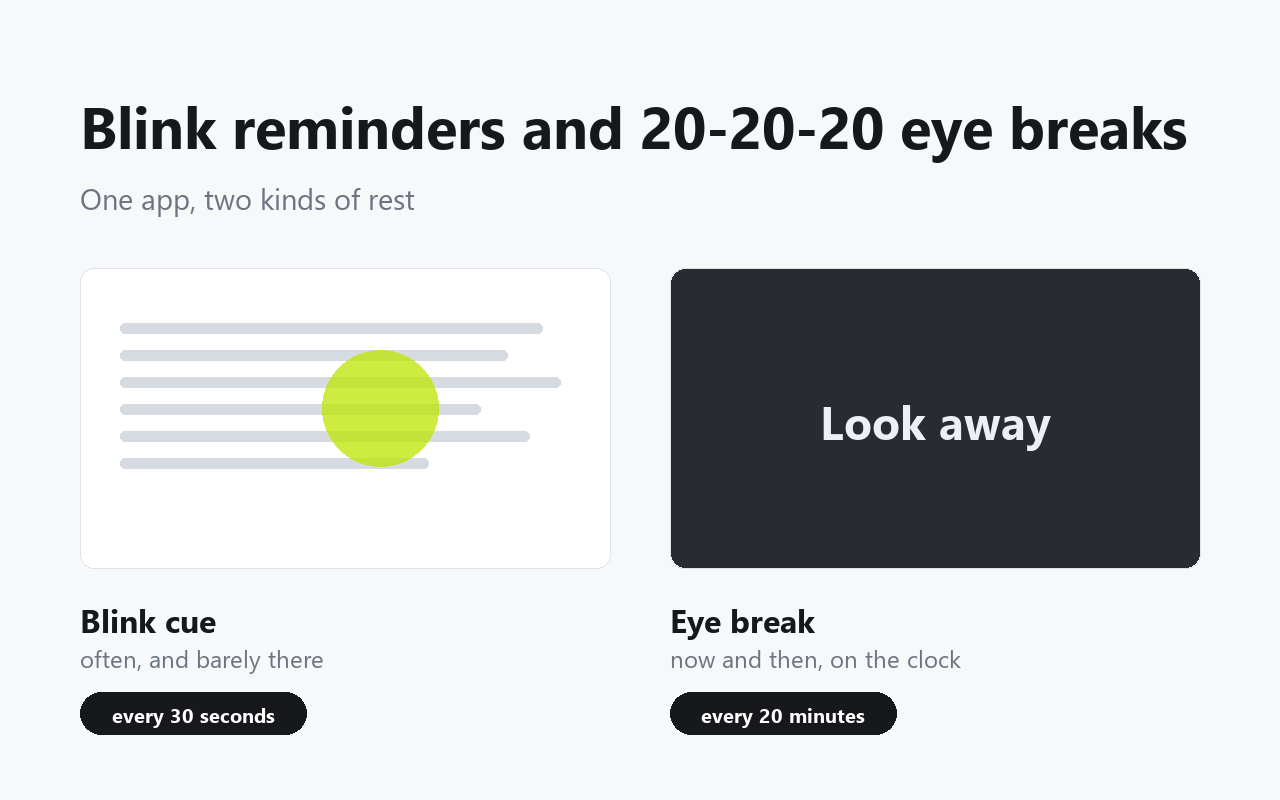
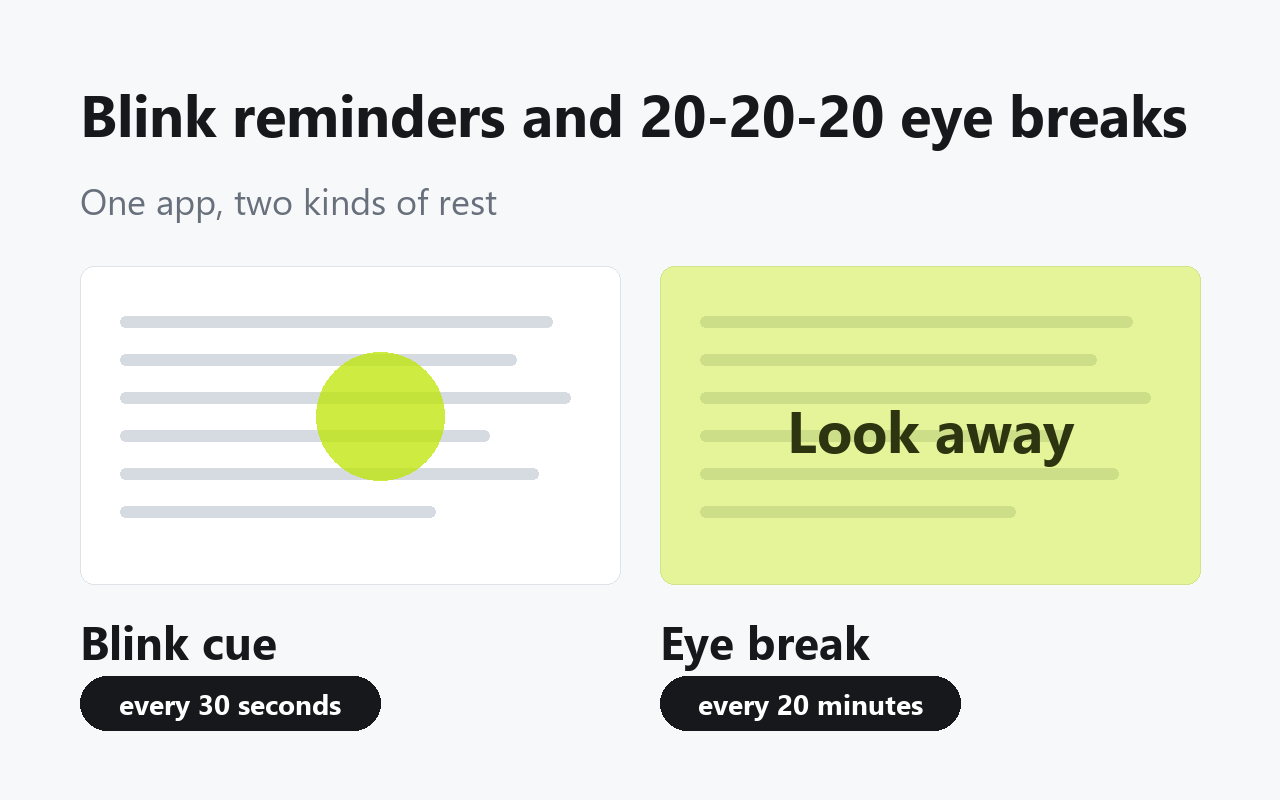
Store screenshots: bigger type, fewer words, an honest break
The Store shows these in a carousel at about half scale, so the captions
set at twenty-four pixels arrived at twelve and were decoration. Everything
is set for the size it is really seen at now -- headlines at seventy-two,
nothing on any slide below thirty-four -- and the words are cut back until
only the claim is left. "Often, and barely there" and "now and then, on the
clock" are gone: the pill underneath already says every 30 seconds and
every 20 minutes, which is the same thing in half the ink.

The break panel was a dark block, which was not a style choice but a
mistake: the break draws the same lime at four-tenths over the page you
were reading, and nothing in this app ever goes dark. It now shows what it
really does, and matches the blink panel beside it. The dim style on the
four-styles slide was wrong in the same way and is fixed with it.

diff --git a/store/make_chrome_screens.py b/store/make_chrome_screens.py
@@ -8,9 +8,14 @@ thumbnails. Every extension in this category sells with illustrated slides,
 so these are illustrated -- but each one shows something the app actually
 does, which is where slides like these usually start lying.
 
+Two rules learned the hard way. Set the type for the size it is really seen
+at: the Store shows these in a carousel at about half scale, so anything
+under forty pixels here is unreadable there. And cut words until only the
+claim is left -- a caption nobody can read is worse than no caption, because
+it takes the space one could have used.
+
 One design system across all five: the same palette, the same face, the
-headline in the same place every time, so they read as a set rather than as
-five unrelated posters.
+headline in the same place every time, so they read as a set.
 
 Writes store/chrome/s1-*.png .. s5-*.png at 1280x800. The 440x280 thumbnail
 is a separate asset and comes from make_chrome_assets.py.
@@ -30,9 +35,9 @@ from make_chrome_assets import font, fit, LIME, INK    # noqa: E402
 W, H = 1280, 800
 PAPER = (247, 248, 250)
 WHITE = (255, 255, 255)
-MUTED = (108, 116, 128)
+MUTED = (104, 112, 124)
 RULE = (222, 227, 234)
-HEAD_Y, SUB_Y, BODY_Y = 86, 178, 268
+HEAD_Y, SUB_Y, BODY_Y = 74, 176, 266
 
 
 def slide(head, sub, bg=PAPER, ink=INK, sub_ink=MUTED):
@@ -40,8 +45,8 @@ def slide(head, sub, bg=PAPER, ink=INK, sub_ink=MUTED):
     headline in the same place; only the middle differs."""
     c = Image.new("RGBA", (W, H), bg + (255,))
     d = ImageDraw.Draw(c)
-    d.text((80, HEAD_Y), head, font=fit(d, head, True, 60, W - 160), fill=ink)
-    d.text((80, SUB_Y), sub, font=fit(d, sub, False, 29, W - 160), fill=sub_ink)
+    d.text((80, HEAD_Y), head, font=fit(d, head, True, 72, W - 160), fill=ink)
+    d.text((80, SUB_Y), sub, font=fit(d, sub, False, 36, W - 160), fill=sub_ink)
     return c, d
 
 
@@ -49,11 +54,11 @@ def card(d, box, radius=14, fill=WHITE, outline=RULE):
     d.rounded_rectangle(box, radius, fill=fill, outline=outline, width=1)
 
 
-def lines(d, x, y, width, rows=6, step=27, colour=(214, 219, 226)):
+def lines(d, x, y, width, rows=6, step=30, colour=(214, 219, 226)):
     """A suggestion of an article, so the cue has something to sit over."""
     for i, frac in enumerate((0.96, 0.88, 1.0, 0.82, 0.93, 0.7)[:rows]):
         d.rounded_rectangle((x, y + i * step, x + int(width * frac),
-                             y + i * step + 10), 5, fill=colour)
+                             y + i * step + 11), 5, fill=colour)
 
 
 def cue(c, cx, cy, r, alpha=190, glow=0):
@@ -68,42 +73,50 @@ def cue(c, cx, cy, r, alpha=190, glow=0):
     c.alpha_composite(layer)
 
 
-def label(d, x, y, text, size=24, bold=True, colour=INK):
+def wash(c, box, radius=14, alpha=102):
+    """The break, as it is really drawn: the same lime over the whole page
+    at four-tenths, not a dark panel. Nothing in the app ever goes dark."""
+    layer = Image.new("RGBA", c.size, (0, 0, 0, 0))
+    ImageDraw.Draw(layer).rounded_rectangle(box, radius, fill=LIME + (alpha,))
+    c.alpha_composite(layer)
+
+
+def label(d, x, y, text, size=40, bold=True, colour=INK):
     d.text((x, y), text, font=font(size, bold), fill=colour)
 
 
-def pill(d, box, text, fill=INK, ink=WHITE, size=20):
+def pill(d, box, text, fill=INK, ink=WHITE, size=28):
     d.rounded_rectangle(box, (box[3] - box[1]) // 2, fill=fill)
     f = font(size, True)
     tw = d.textlength(text, font=f)
-    d.text((box[0] + ((box[2] - box[0]) - tw) / 2, box[1] + 9), text, font=f, fill=ink)
+    d.text((box[0] + ((box[2] - box[0]) - tw) / 2,
+            box[1] + ((box[3] - box[1]) - size * 1.35) / 2), text, font=f, fill=ink)
 
 
 # -- 1. what it is -----------------------------------------------------------
 def s1():
     """The only slide that has to work on someone who has never heard of
-    this: two reminders, at two rates, side by side."""
+    this: both reminders, drawn the way they really look, side by side."""
     c, d = slide("Blink reminders and 20-20-20 eye breaks",
                  "One app, two kinds of rest")
-    panels = ((80, "Blink cue", "often, and barely there", "every 30 seconds"),
-              (670, "Eye break", "now and then, on the clock", "every 20 minutes"))
-    for i, (x, title, note, rate) in enumerate(panels):
-        box = (x, BODY_Y, x + 530, BODY_Y + 300)
+    ph = 318
+    for i, (x, title, rate) in enumerate(((80, "Blink cue", "every 30 seconds"),
+                                          (660, "Eye break", "every 20 minutes"))):
+        box = (x, BODY_Y, x + 540, BODY_Y + ph)
         card(d, box)
+        lines(d, x + 40, BODY_Y + 50, 450, rows=6, step=38)
         if i == 0:
-            lines(d, x + 40, BODY_Y + 55, 440)
-            cue(c, x + 300, BODY_Y + 140, 58)
+            cue(c, x + 300, BODY_Y + 150, 64)
         else:
-            d.rounded_rectangle((x + 1, BODY_Y + 1, x + 529, BODY_Y + 299), 14,
-                                fill=(40, 44, 50))
-            f = font(46, True)
+            wash(c, box)
+            e = ImageDraw.Draw(c)
+            f = font(58, True)
             t = "Look away"
-            d.text((x + (530 - d.textlength(t, font=f)) / 2, BODY_Y + 122), t,
-                   font=f, fill=(236, 240, 245))
+            e.text((x + (540 - e.textlength(t, font=f)) / 2, BODY_Y + 124), t,
+                   font=f, fill=(44, 52, 16))
         d = ImageDraw.Draw(c)
-        label(d, x, BODY_Y + 330, title, 32)
-        label(d, x, BODY_Y + 374, note, 24, False, MUTED)
-        pill(d, (x, BODY_Y + 424, x + 226, BODY_Y + 466), rate)
+        label(d, x, BODY_Y + ph + 26, title, 46)
+        pill(d, (x, BODY_Y + ph + 92, x + 300, BODY_Y + ph + 146), rate)
     return c
 
 
@@ -112,19 +125,18 @@ def s2():
     """The cue at a size you can actually see, which is the thing five
     full-page screenshots never managed."""
     c, d = slide("You will see it, and hear it",
-                 "A soft cue and a quiet chime, so it does not pass you by")
-    card(d, (80, BODY_Y, 740, BODY_Y + 420))
-    lines(d, 120, BODY_Y + 48, 560, rows=6, step=34)
-    cue(c, 410, BODY_Y + 210, 108, glow=14)
+                 "So a quiet reminder is not a missed one")
+    card(d, (80, BODY_Y, 720, BODY_Y + 400))
+    lines(d, 124, BODY_Y + 46, 540, rows=6, step=54)
+    cue(c, 400, BODY_Y + 200, 104, glow=14)
     d = ImageDraw.Draw(c)
-    for i, r in enumerate((152, 202, 252)):
-        d.arc((410 - r, BODY_Y + 210 - r, 410 + r, BODY_Y + 210 + r),
-              -50, 50, fill=(151, 180, 44), width=max(2, 6 - i * 2))
-    label(d, 810, BODY_Y + 110, "Seen", 36)
-    label(d, 810, BODY_Y + 156, "Lime, soft, and gone\nin about a second.", 24, False, MUTED)
-    label(d, 810, BODY_Y + 250, "Heard", 36)
-    label(d, 810, BODY_Y + 296, "A quiet chime at 15%,\nor silence if you prefer.",
-          24, False, MUTED)
+    for i, r in enumerate((146, 196, 246)):
+        d.arc((400 - r, BODY_Y + 200 - r, 400 + r, BODY_Y + 200 + r),
+              -50, 50, fill=(151, 180, 44), width=max(3, 8 - i * 2))
+    label(d, 790, BODY_Y + 86, "Seen", 56)
+    label(d, 790, BODY_Y + 150, "Soft, and gone\nin a second.", 34, False, MUTED)
+    label(d, 790, BODY_Y + 250, "Heard", 56)
+    label(d, 790, BODY_Y + 314, "A quiet chime,\nor none at all.", 34, False, MUTED)
     return c
 
 
@@ -132,33 +144,30 @@ def s2():
 def s3():
     """The buyer's real fear is being nagged. Four real renders answer it
     better than a sentence does."""
-    c, d = slide("Four styles. All adjustable.",
-                 "Size, colour, strength, timing, sound — make it fit your work")
-    cw, ch = 530, 200
+    c, d = slide("Four styles. All adjustable.", "Make it fit the way you work")
+    cw, ch = 540, 186
     for name, gx, gy in (("A dot", 0, 0), ("A word", 1, 0),
                          ("Dim screen", 0, 1), ("Corner dot", 1, 1)):
-        x, y = 80 + gx * 590, BODY_Y + gy * 258
-        card(d, (x, y, x + cw, y + ch))
-        lines(d, x + 26, y + 24, cw - 52, rows=4, step=22, colour=(226, 230, 236))
+        x, y = 80 + gx * 580, BODY_Y + gy * 262
+        box = (x, y, x + cw, y + ch)
+        card(d, box)
+        lines(d, x + 28, y + 26, cw - 56, rows=4, step=34, colour=(224, 229, 235))
         mx, my = x + cw // 2, y + ch // 2
         if name == "A dot":
-            cue(c, mx, my, 50)
+            cue(c, mx, my, 52)
         elif name == "A word":
-            f = font(52, True)
+            f = font(56, True)
             layer = Image.new("RGBA", c.size, (0, 0, 0, 0))
             ImageDraw.Draw(layer).text(
-                (mx - d.textlength("Blink", font=f) / 2, my - 34), "Blink",
-                font=f, fill=LIME + (225,))
+                (mx - d.textlength("Blink", font=f) / 2, my - 38), "Blink",
+                font=f, fill=LIME + (230,))
             c.alpha_composite(layer)
         elif name == "Dim screen":
-            layer = Image.new("RGBA", c.size, (0, 0, 0, 0))
-            ImageDraw.Draw(layer).rounded_rectangle(
-                (x + 1, y + 1, x + cw - 1, y + ch - 1), 14, fill=INK + (72,))
-            c.alpha_composite(layer)
+            wash(c, box)
         else:
-            cue(c, x + cw - 32, y + ch - 30, 9, alpha=255)
+            cue(c, x + cw - 34, y + ch - 32, 10, alpha=255)
         d = ImageDraw.Draw(c)
-        label(d, x, y + ch + 12, name, 26)
+        label(d, x, y + ch + 14, name, 38)
     return c
 
 
@@ -167,22 +176,21 @@ def s4():
     """The rule people have already heard from their optometrist. It is also
     what they type into the search box."""
     c, d = slide("Every 20 minutes, look 20 feet away, for 20 seconds",
-                 "The rule eye-care professionals recommend, kept for you",
-                 bg=INK, ink=WHITE, sub_ink=(168, 176, 188))
-    f = font(200, True)
-    parts = ("20", "20", "20")
-    under = ("minutes", "feet away", "seconds")
-    gap = 76
+                 "The rule eye-care professionals recommend",
+                 bg=INK, ink=WHITE, sub_ink=(170, 178, 190))
+    f = font(210, True)
+    parts, under = ("20", "20", "20"), ("minutes", "feet away", "seconds")
+    gap = 78
     widths = [d.textlength(p, font=f) for p in parts]
     x = (W - (sum(widths) + gap * 2)) / 2
     for i, (p, wd) in enumerate(zip(parts, widths)):
-        d.text((x, 330), p, font=f, fill=LIME if i == 1 else WHITE)
-        fu = font(30, True)
-        d.text((x + (wd - d.textlength(under[i], font=fu)) / 2, 572), under[i],
-               font=fu, fill=(168, 176, 188))
+        d.text((x, 320), p, font=f, fill=LIME if i == 1 else WHITE)
+        fu = font(42, True)
+        d.text((x + (wd - d.textlength(under[i], font=fu)) / 2, 578), under[i],
+               font=fu, fill=(170, 178, 190))
         if i < 2:
             cx = x + wd + gap / 2
-            d.ellipse((cx - 7, 448, cx + 7, 462), fill=(92, 100, 112))
+            d.ellipse((cx - 8, 444, cx + 8, 460), fill=(94, 102, 114))
         x += wd + gap
     return c
 
@@ -192,22 +200,22 @@ def s5():
     """Every line here is checkable in the source, which is the only reason
     to make a claim this flat."""
     c, d = slide("Nothing leaves your device",
-                 "It has no way to send anything anywhere, and nothing to send")
-    y = BODY_Y + 6
+                 "No way to send anything anywhere, and nothing to send")
+    y = BODY_Y
     for text in ("No account, no sign-in",
-                 "No ads, no analytics, no tracking",
-                 "No network connection of any kind",
-                 "Nothing on any page is ever read",
-                 "Showing the cue on pages is opt-in"):
-        card(d, (80, y, 1200, y + 76))
-        cy = y + 38
-        d.ellipse((116, cy - 14, 144, cy + 14), fill=LIME)
+                 "No ads, no analytics",
+                 "No network connection",
+                 "No page content is read",
+                 "Page access is opt-in"):
+        card(d, (80, y, 1200, y + 86))
+        cy = y + 43
+        d.ellipse((124, cy - 19, 162, cy + 19), fill=LIME)
         # Drawn, not typed: Segoe UI Bold has no check mark, and the missing
         # glyph comes out as a box.
-        d.line([(123, cy), (128, cy + 6), (137, cy - 6)], fill=INK, width=3,
+        d.line([(133, cy + 1), (140, cy + 9), (153, cy - 9)], fill=INK, width=4,
                joint="curve")
-        label(d, 176, y + 22, text, 28, False)
-        y += 92
+        label(d, 196, y + 22, text, 40, False)
+        y += 100
     return c
 
 
